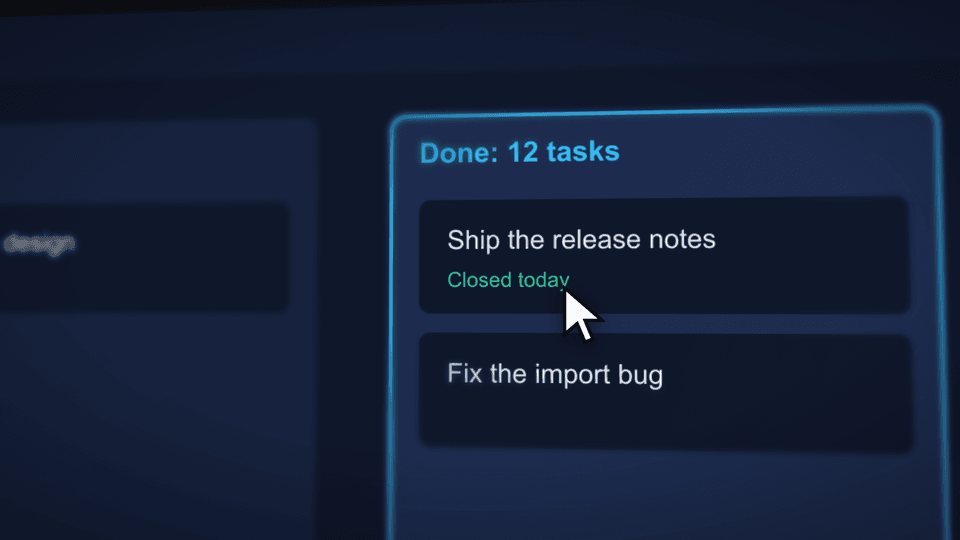
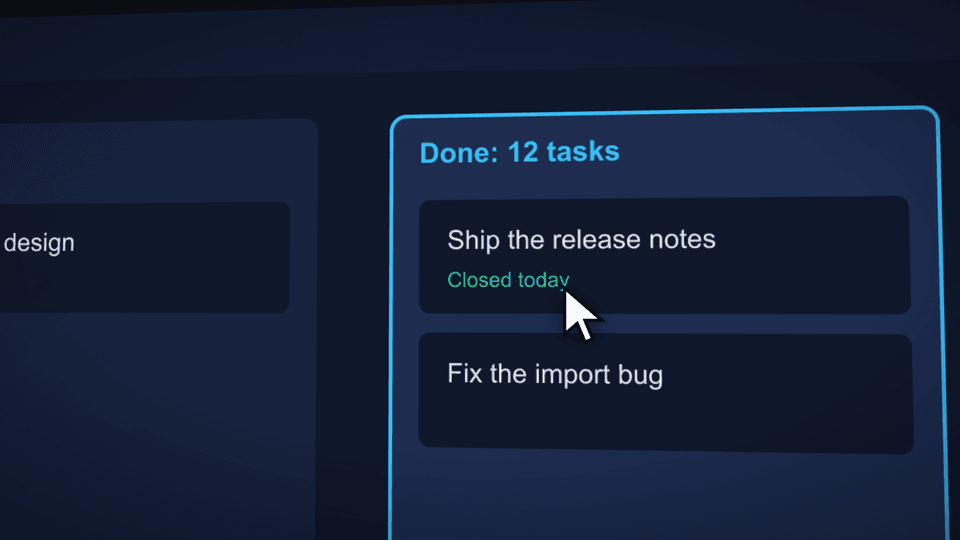
API gallery: stills for the new cinematic primitives, and a sharp DirectedShot (#121)

diff --git a/packages/docs/API.md b/packages/docs/API.md
@@ -157,7 +157,7 @@ camera at any frame without mounting the component.
 
 | Start of the move | End of the move |
 |---|---|
-| ![DirectedShot at frame 0: the whole capture](img/api/directedshot-start.png) | ![DirectedShot at the end: pushed in, tilted, cursor on the target (this still was rendered with depthOfField 6, which is no longer the default)](img/api/directedshot-end.png) |
+| ![DirectedShot at frame 0: the whole capture](img/api/directedshot-start.png) | ![DirectedShot at the end of the move: pushed in on the Done column and tilted, with its text sharp and the cursor on the target](img/api/directedshot-end.png) |
 
 ### Shots: `resolveShot`, `SHOT_NAMES`
 
@@ -178,7 +178,16 @@ scene can read it too: `resolveShot(name, { focus?, push?, captureWidth?, captur
 | `hold` | The whole capture with a 2% creep so it is never dead. For action inside the frame: a cursor, typing | 1 to 1.02 | 60 |
 | `drift` | Ambient: a long, small move toward the focus with a sub-degree wander in the tilt | 1 to 1.06 | 150 |
 
+Each move, caught half way through (the dashboard capture, focus on the Done column):
+
+| | | |
+|---|---|---|
+| ![pushIn half way: the board partly zoomed toward the Done column](img/api/shot-pushin.png) `pushIn` | ![pullOut half way: backing away from the Done column to reveal the board](img/api/shot-pullout.png) `pullOut` | ![pan half way: the camera sliding sideways onto the Done column with a slight yaw](img/api/shot-pan.png) `pan` |
+| ![whip mid move: the board streaked sideways by motion blur](img/api/shot-whip.png) `whip` | ![orbit half way: the board seen from a slight angle, swinging around the Done column](img/api/shot-orbit.png) `orbit` | ![dutch half way: a push in with the horizon rolled off level](img/api/shot-dutch.png) `dutch` |
+
 ### `LayeredShot`
+
+![LayeredShot mid push and tilt: the Done column's first card floats in front of the board and has slid against it](img/api/layeredshot.png)
 
 A `DirectedShot` whose picture is a stack of layers instead of one flat image: a background plus
 the elements that float above it, each at its own depth, so a push and a tilt make them slide
@@ -198,6 +207,8 @@ type ShotLayer = { src: string; x: number; y: number; width: number; height: num
 ```
 
 ### `MotionBlur`
+
+![A rounded blue card with two text lines, moving fast to the right, smeared into a streak at its leading and trailing edges](img/api/motionblur.png)
 
 Wraps children in Remotion's `CameraMotionBlur`, but only for the frames of a window. Outside it the
 children render directly, as if the wrapper were not there.
@@ -698,6 +709,14 @@ as one continuous move across the cut.
 | ![Atmosphere: drifting colour fields](img/api/atmosphere.png) `Atmosphere` | ![DotGrid: a faint dot texture behind a Glass panel](img/api/dotgrid.png) `DotGrid` |
 | ![Flash: the frame during an exposure flash](img/api/flash.png) `Flash` | ![Letterbox: cinematic bars](img/api/letterbox.png) `Letterbox` |
 | ![Black: a solid black frame, with the scene held under it](img/api/black.png) `Black` | |
+
+`TransitionOverlay`, one still per type, a few frames into the cut (a blue "before" scene turning into a dark "after" one;
+the light leak is at its peak on the cut itself):
+
+| | | |
+|---|---|---|
+| ![fade: the blue scene dimming toward the dark one](img/api/transitionoverlay-fade.png) `fade` | ![whip: a streaked, blurred sweep across the frame as one scene is thrown aside](img/api/transitionoverlay-whip.png) `whip` | ![push: a thin blue strip of the old scene left on the left as the dark scene pushes in](img/api/transitionoverlay-push.png) `push` |
+| ![wipe: an angled edge with a bright line sweeping across, dark scene on the left and blue scene on the right](img/api/transitionoverlay-wipe.png) `wipe` | ![light-leak: a warm wash of light bleeding across the cut](img/api/transitionoverlay-light-leak.png) `light-leak` | |
 
 ---
 

diff --git a/CHANGELOG.md b/CHANGELOG.md
@@ -9,6 +9,8 @@ Versioning follows [Semantic Versioning](https://semver.org/spec/v2.0.0.html).
 
 ### Docs
 
+- **The API gallery now has a picture for every new cinematic primitive, and the `DirectedShot` still has sharp text (#121).** `build-api-gallery.mjs` renders `TransitionOverlay` (one still per type: fade, whip, push, wipe, light-leak), `LayeredShot`, `MotionBlur` (a fast move, mid-way) and the six named shots (pushIn, pullOut, pan, whip, orbit, dutch), and `API.md` embeds each with alt text that says what it shows. `directedshot-start.png` and `directedshot-end.png` were re-rendered with the new sharp default (the old end still was rendered with a depth of field of 6 and smeared its text). `api-gallery.test.mjs` checks every embedded still exists, the new ones are embedded and described, each image is under 160KB, and measures the text in the `DirectedShot` still: the steepest edges in its text boxes are 198 of 255, against 41 in the old one.
+
 - **README and CONTRIBUTING rewritten to be plainer and more welcoming.** The README now explains
   what the tool does in five steps, leads the install with the clone route, and says outright that
   `npx -y @openvidstudio/mcp-server` installs 0.1.0 from September (about 27 tools, no director
